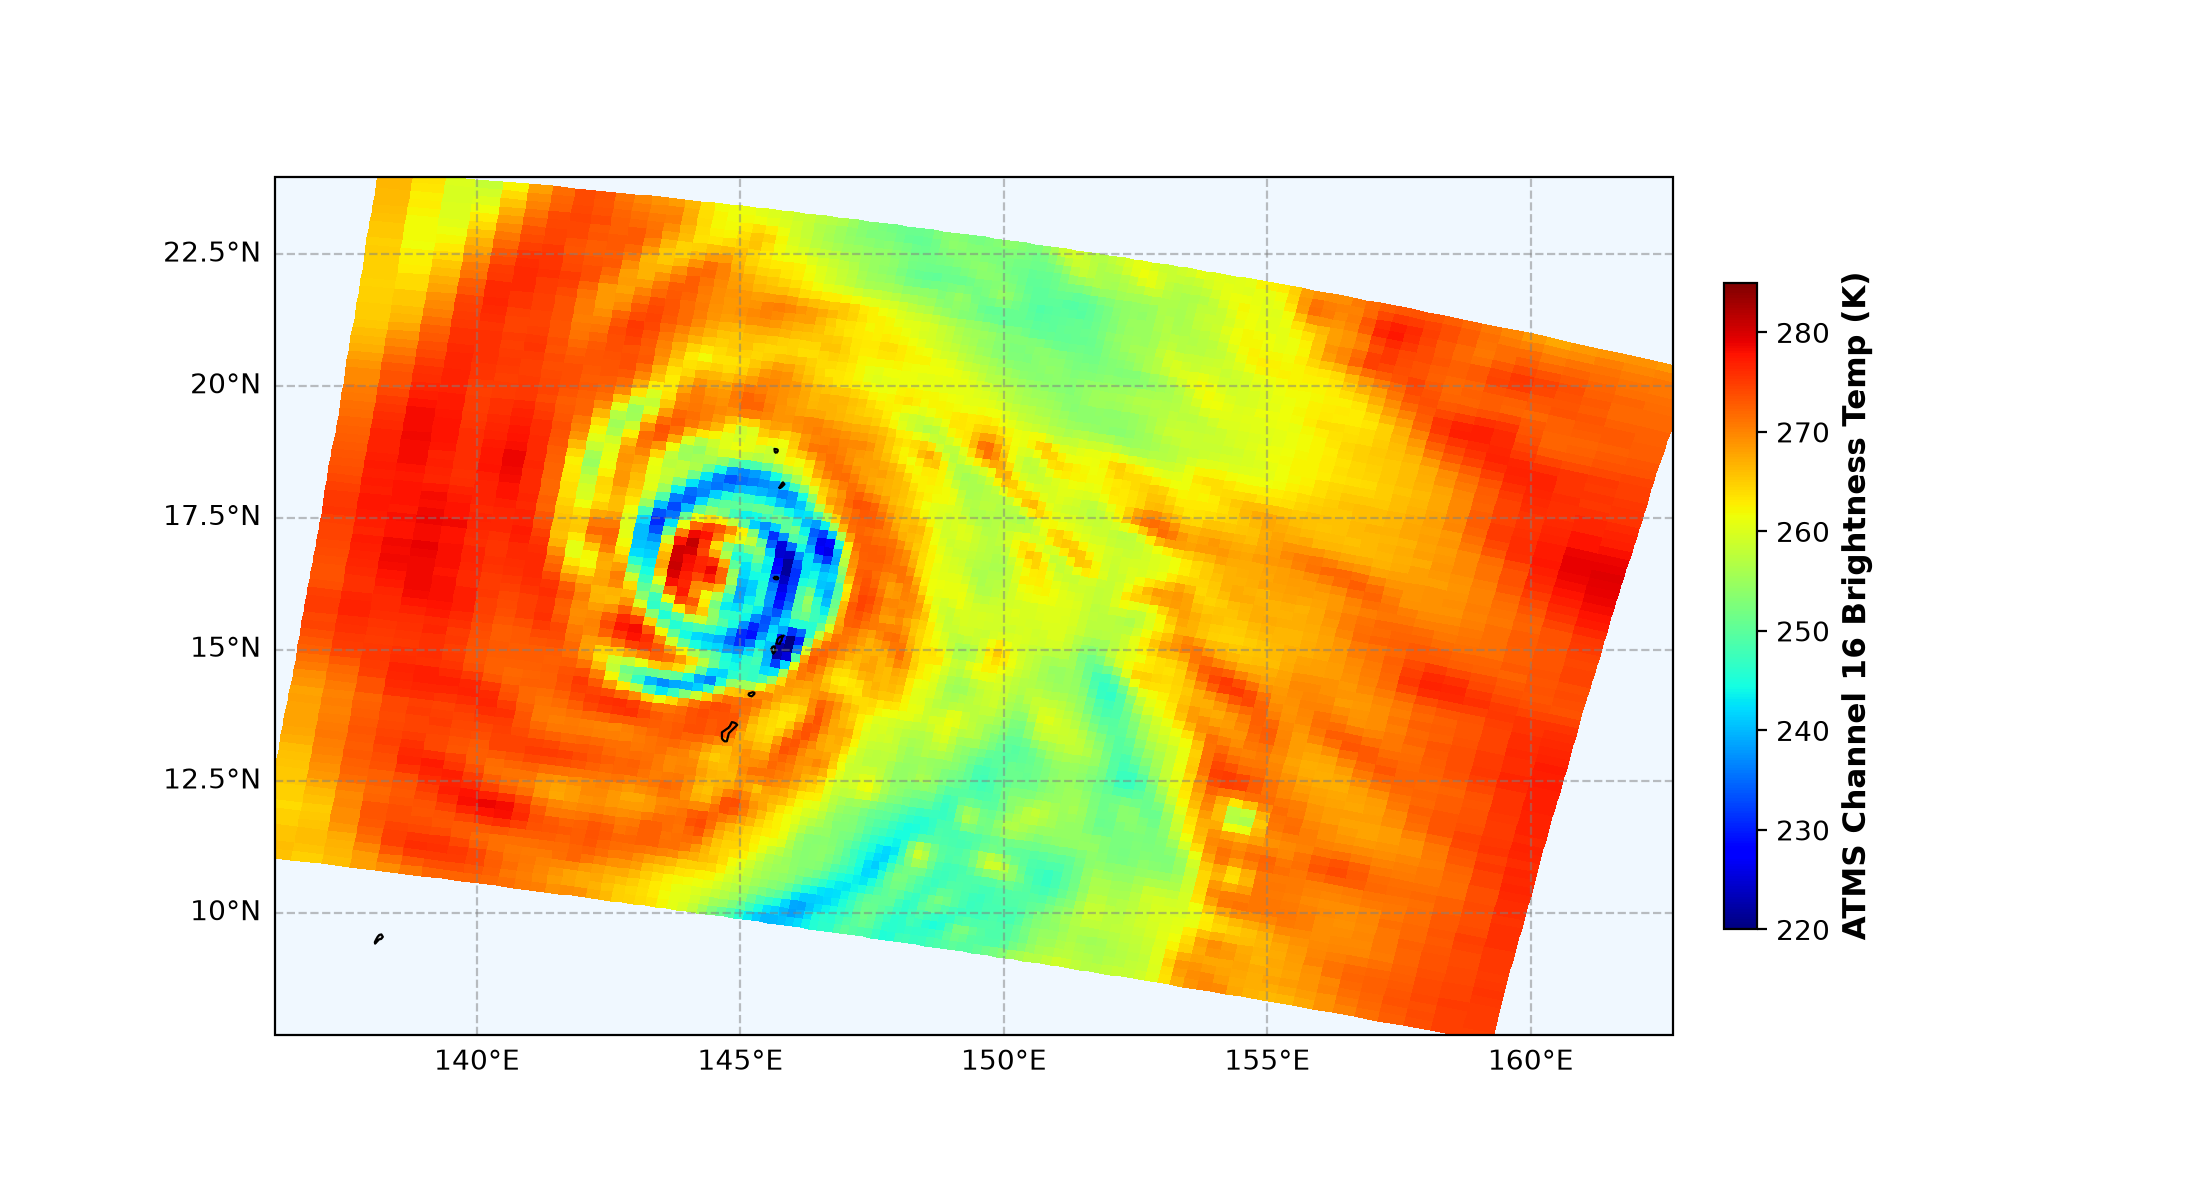
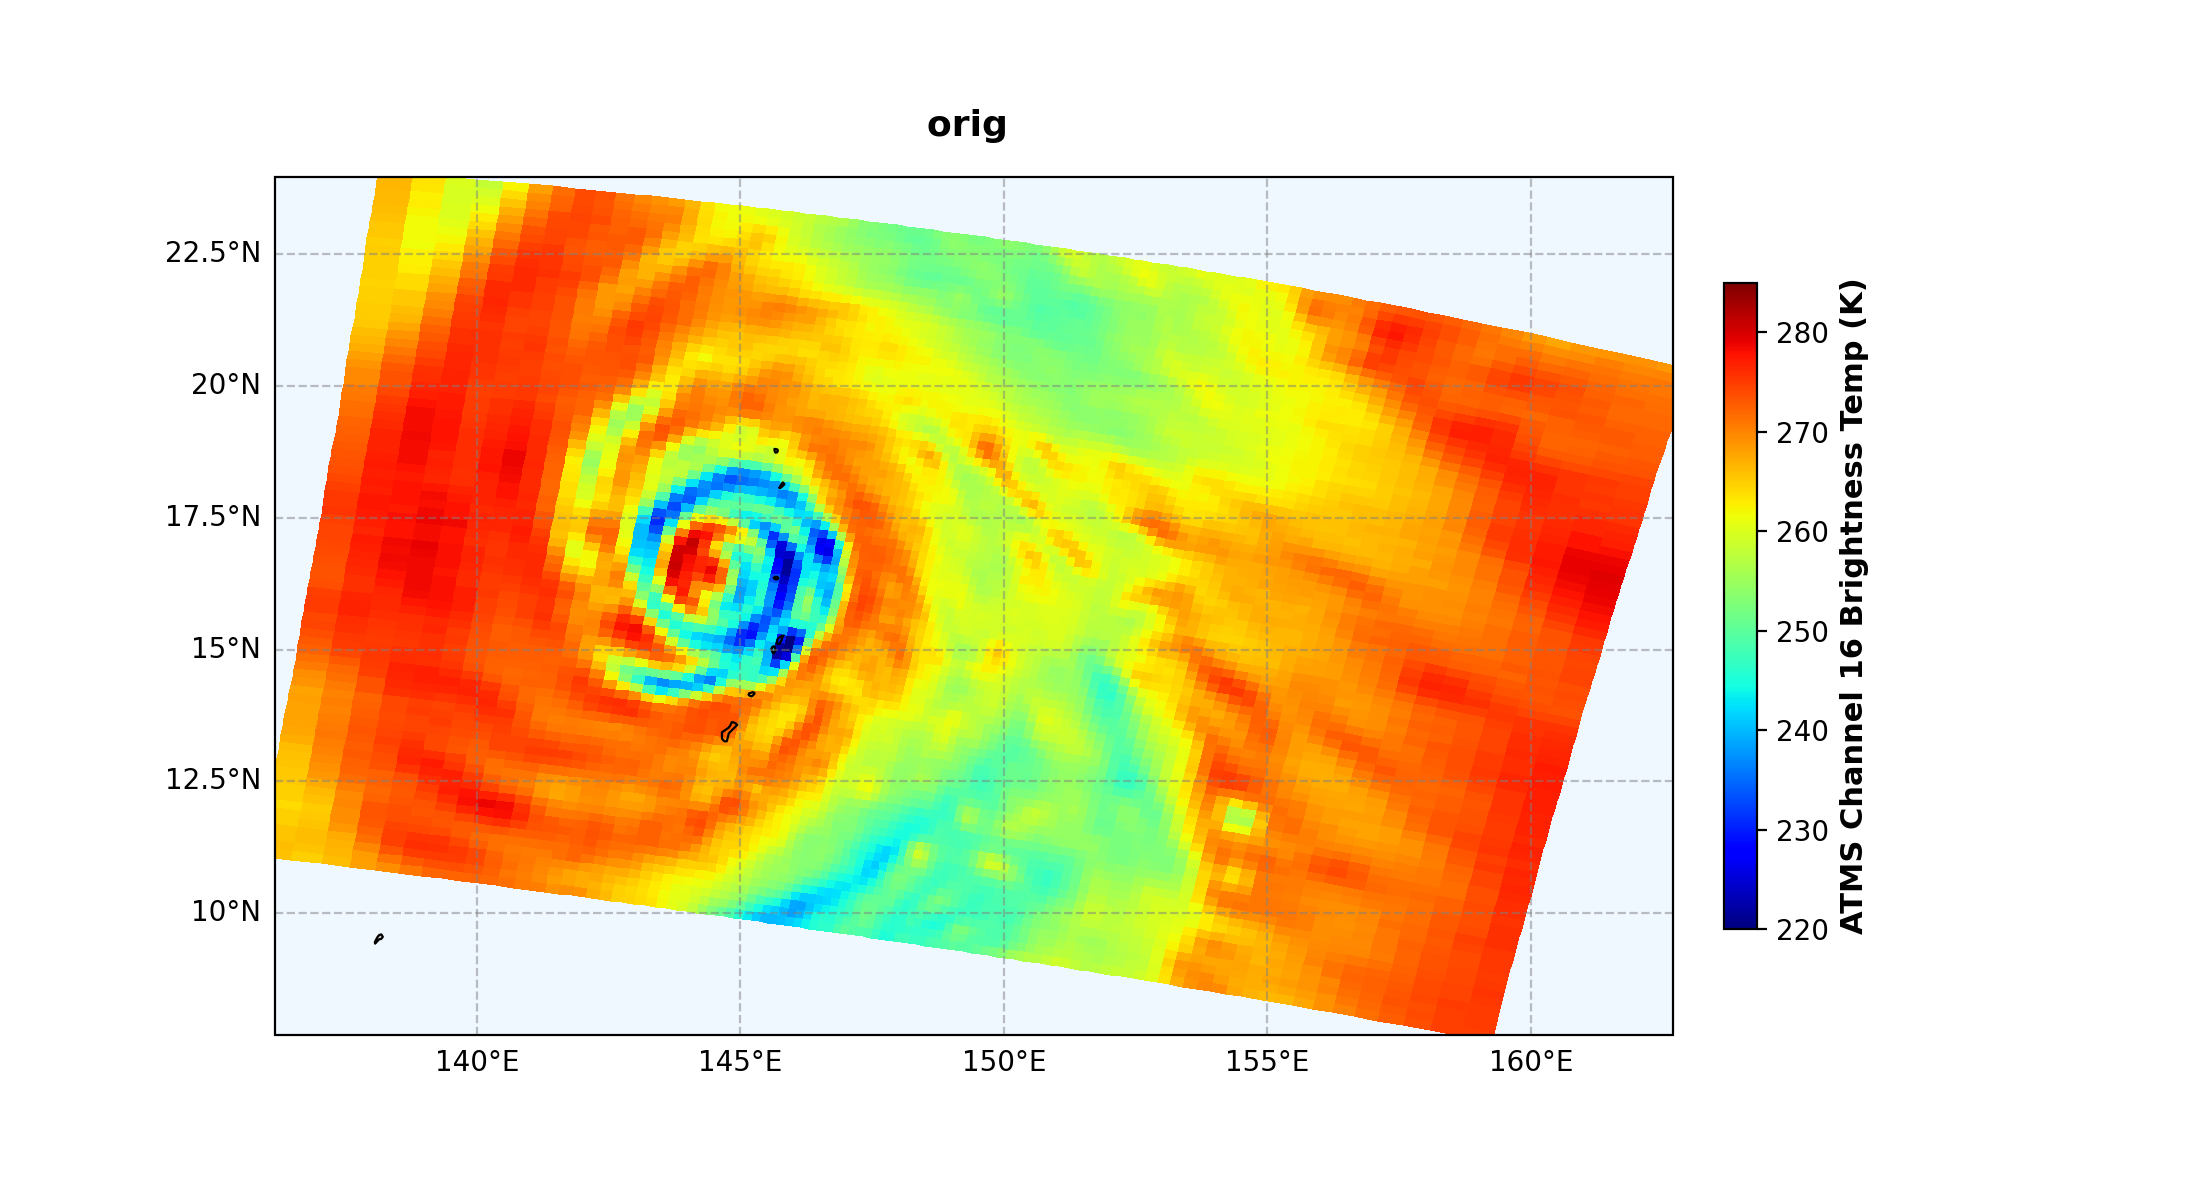
Updated notebook and arms_example

diff --git a/github_case/atms_example.py b/github_case/atms_example.py
@@ -86,8 +86,8 @@ def make_plot(atms_lon, atms_lat, atms_bt, title_str='', extent=None,
 def main (): 
   
     ### get the ATMS file list 
-    atms_geo_files = sorted(glob.glob('./data/GATMO_j01_d20260415*.h5'))
-    atms_sdr_files = sorted(glob.glob('./data/SATMS_j01_d20260415*.h5'))
+    atms_geo_files = sorted(glob.glob('github_case/data/GATMO_j01_d20260415*.h5'))
+    atms_sdr_files = sorted(glob.glob('github_case/data/SATMS_j01_d20260415*.h5'))
     
     ### Read Brightness Temperaute  
     sdrs = [h5py.File(filename, 'r') for filename in atms_sdr_files]
@@ -132,7 +132,7 @@ def main ():
     
     
     ## make plots for orginal resolotion 
-    make_plot(lon, lat, bt, title_str='orig ', extent=extent, outfile='orig.png')
+    make_plot(lon, lat, bt, title_str='orig ', extent=extent, outfile='github_case/orig.png')
     
     ## make plots for high resolotion 
     # 3. Zoom coordinates linearly to match the 4x super-resolution prediction grid